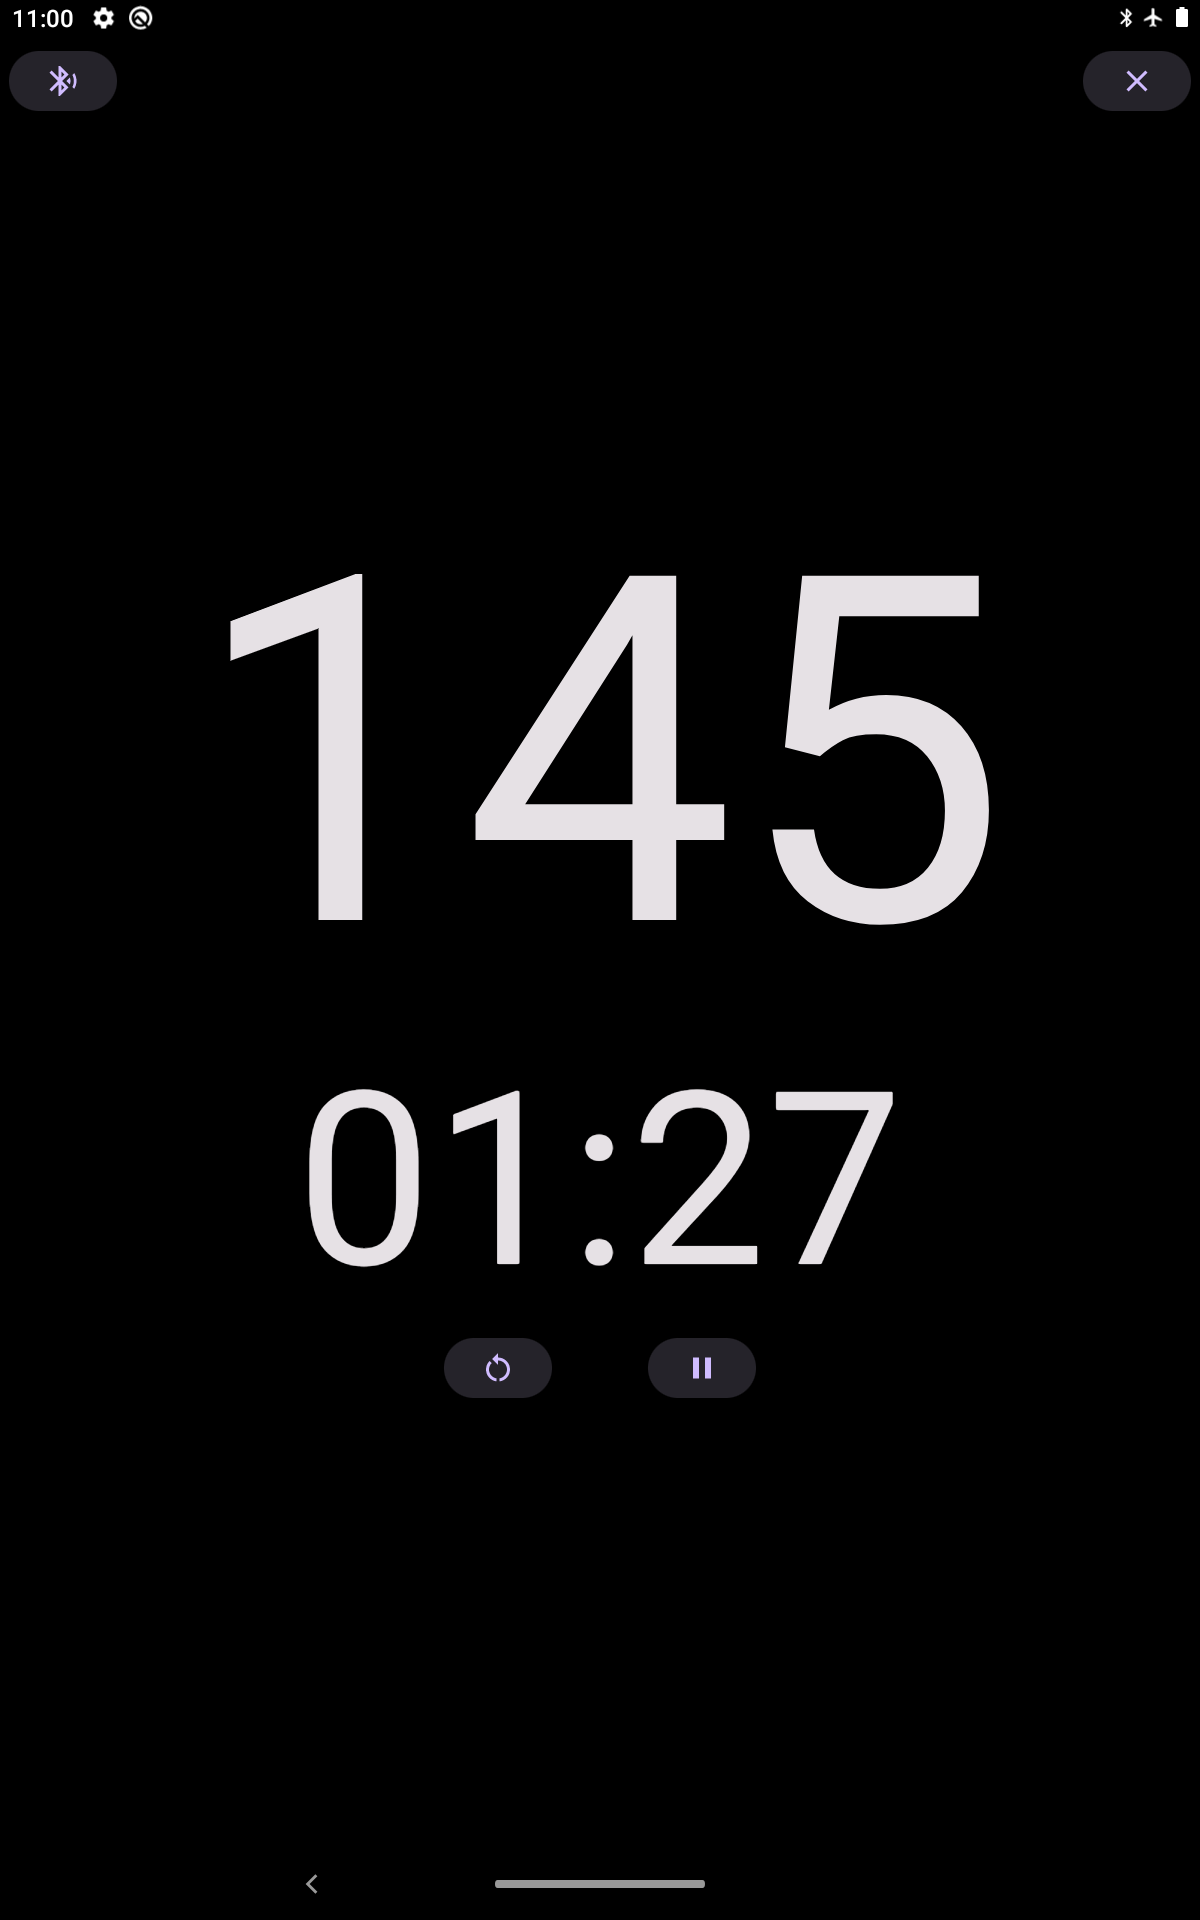
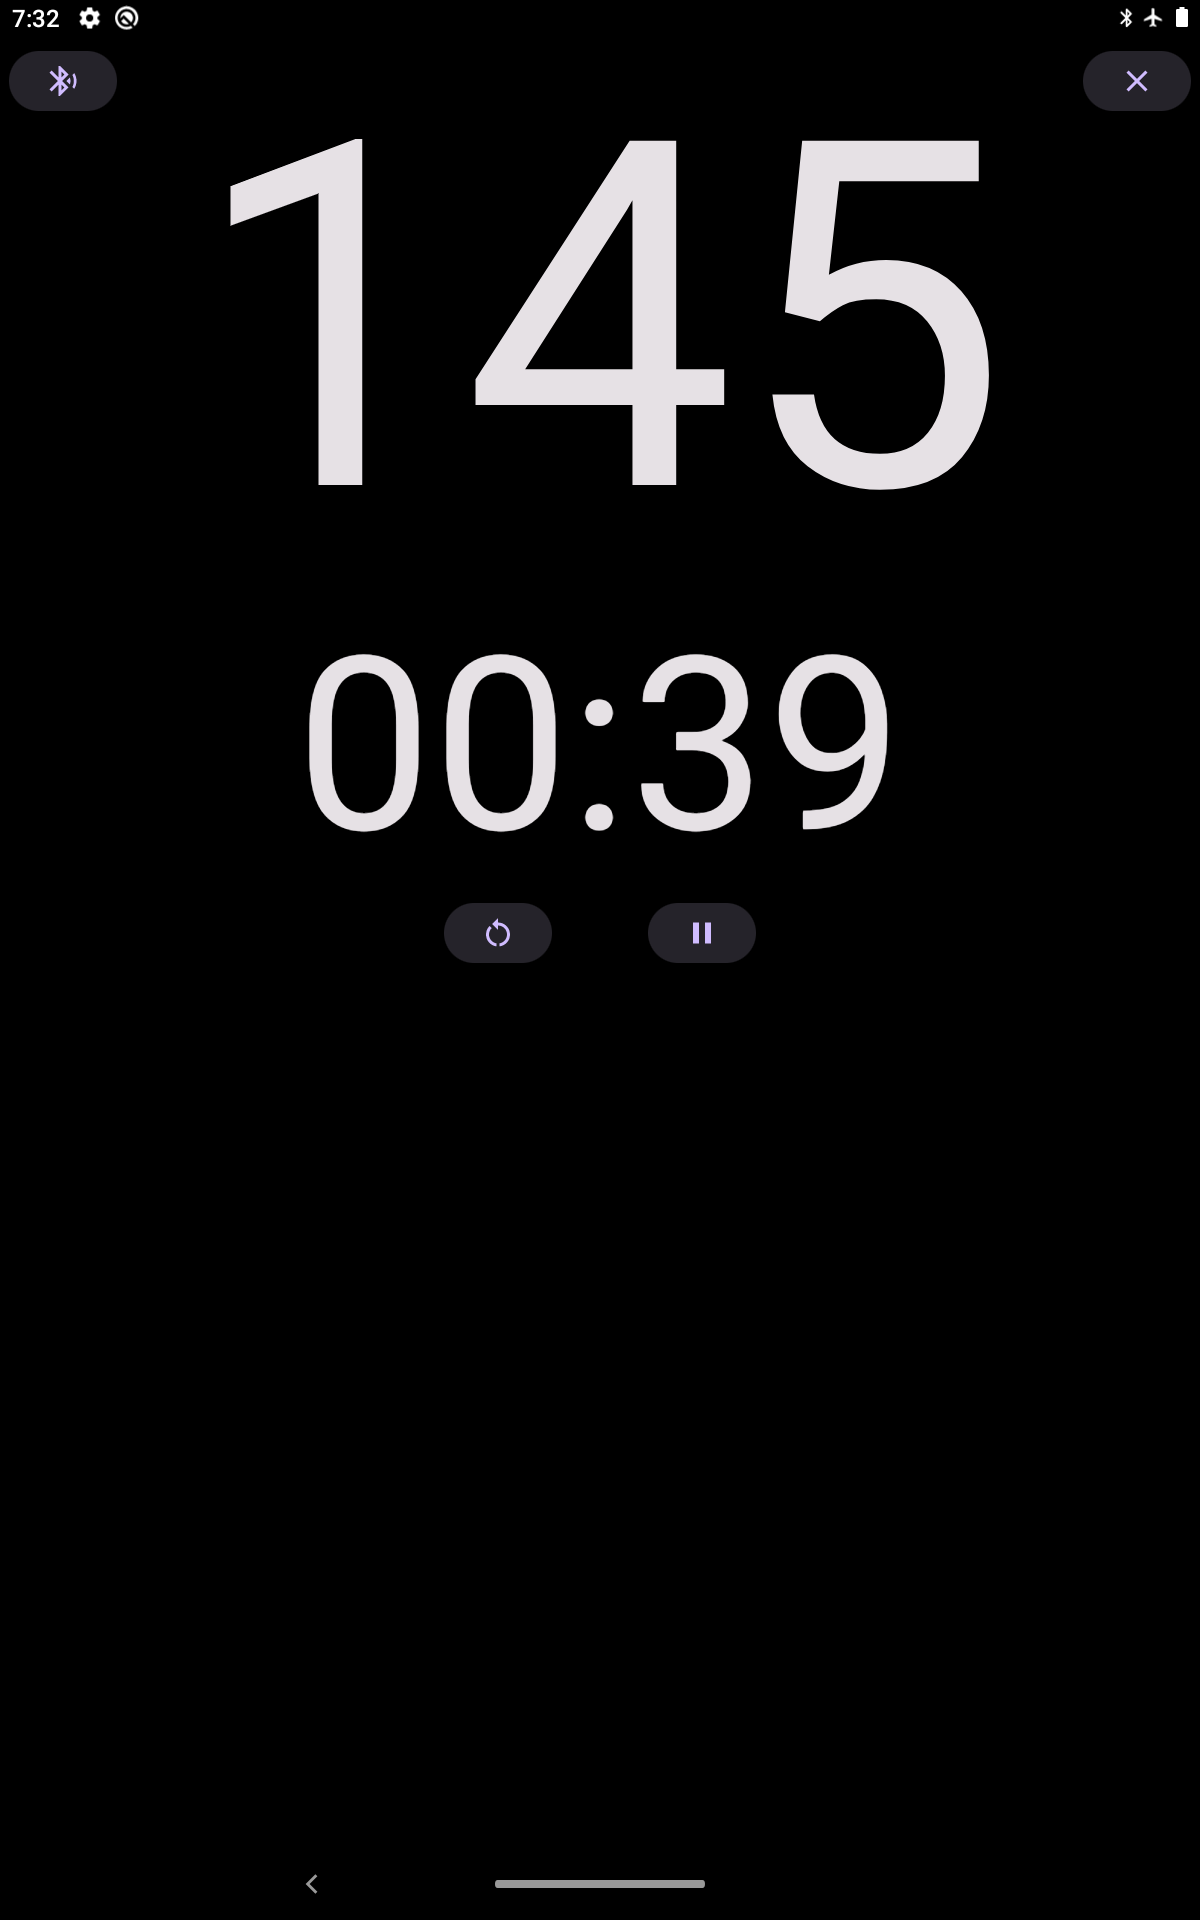
Version bump

diff --git a/app/src/main/java/com/ds/pulsar/MainActivity.kt b/app/src/main/java/com/ds/pulsar/MainActivity.kt
@@ -278,7 +278,7 @@ private fun MainUI() {
             Modifier
                 .fillMaxSize(),
             horizontalAlignment = Alignment.CenterHorizontally,
-            verticalArrangement = Arrangement.Center
+            verticalArrangement = Arrangement.Top
         ) {
             val pulse = remember{ mutableStateOf("---") }
             val time = remember{ mutableStateOf("---") }
